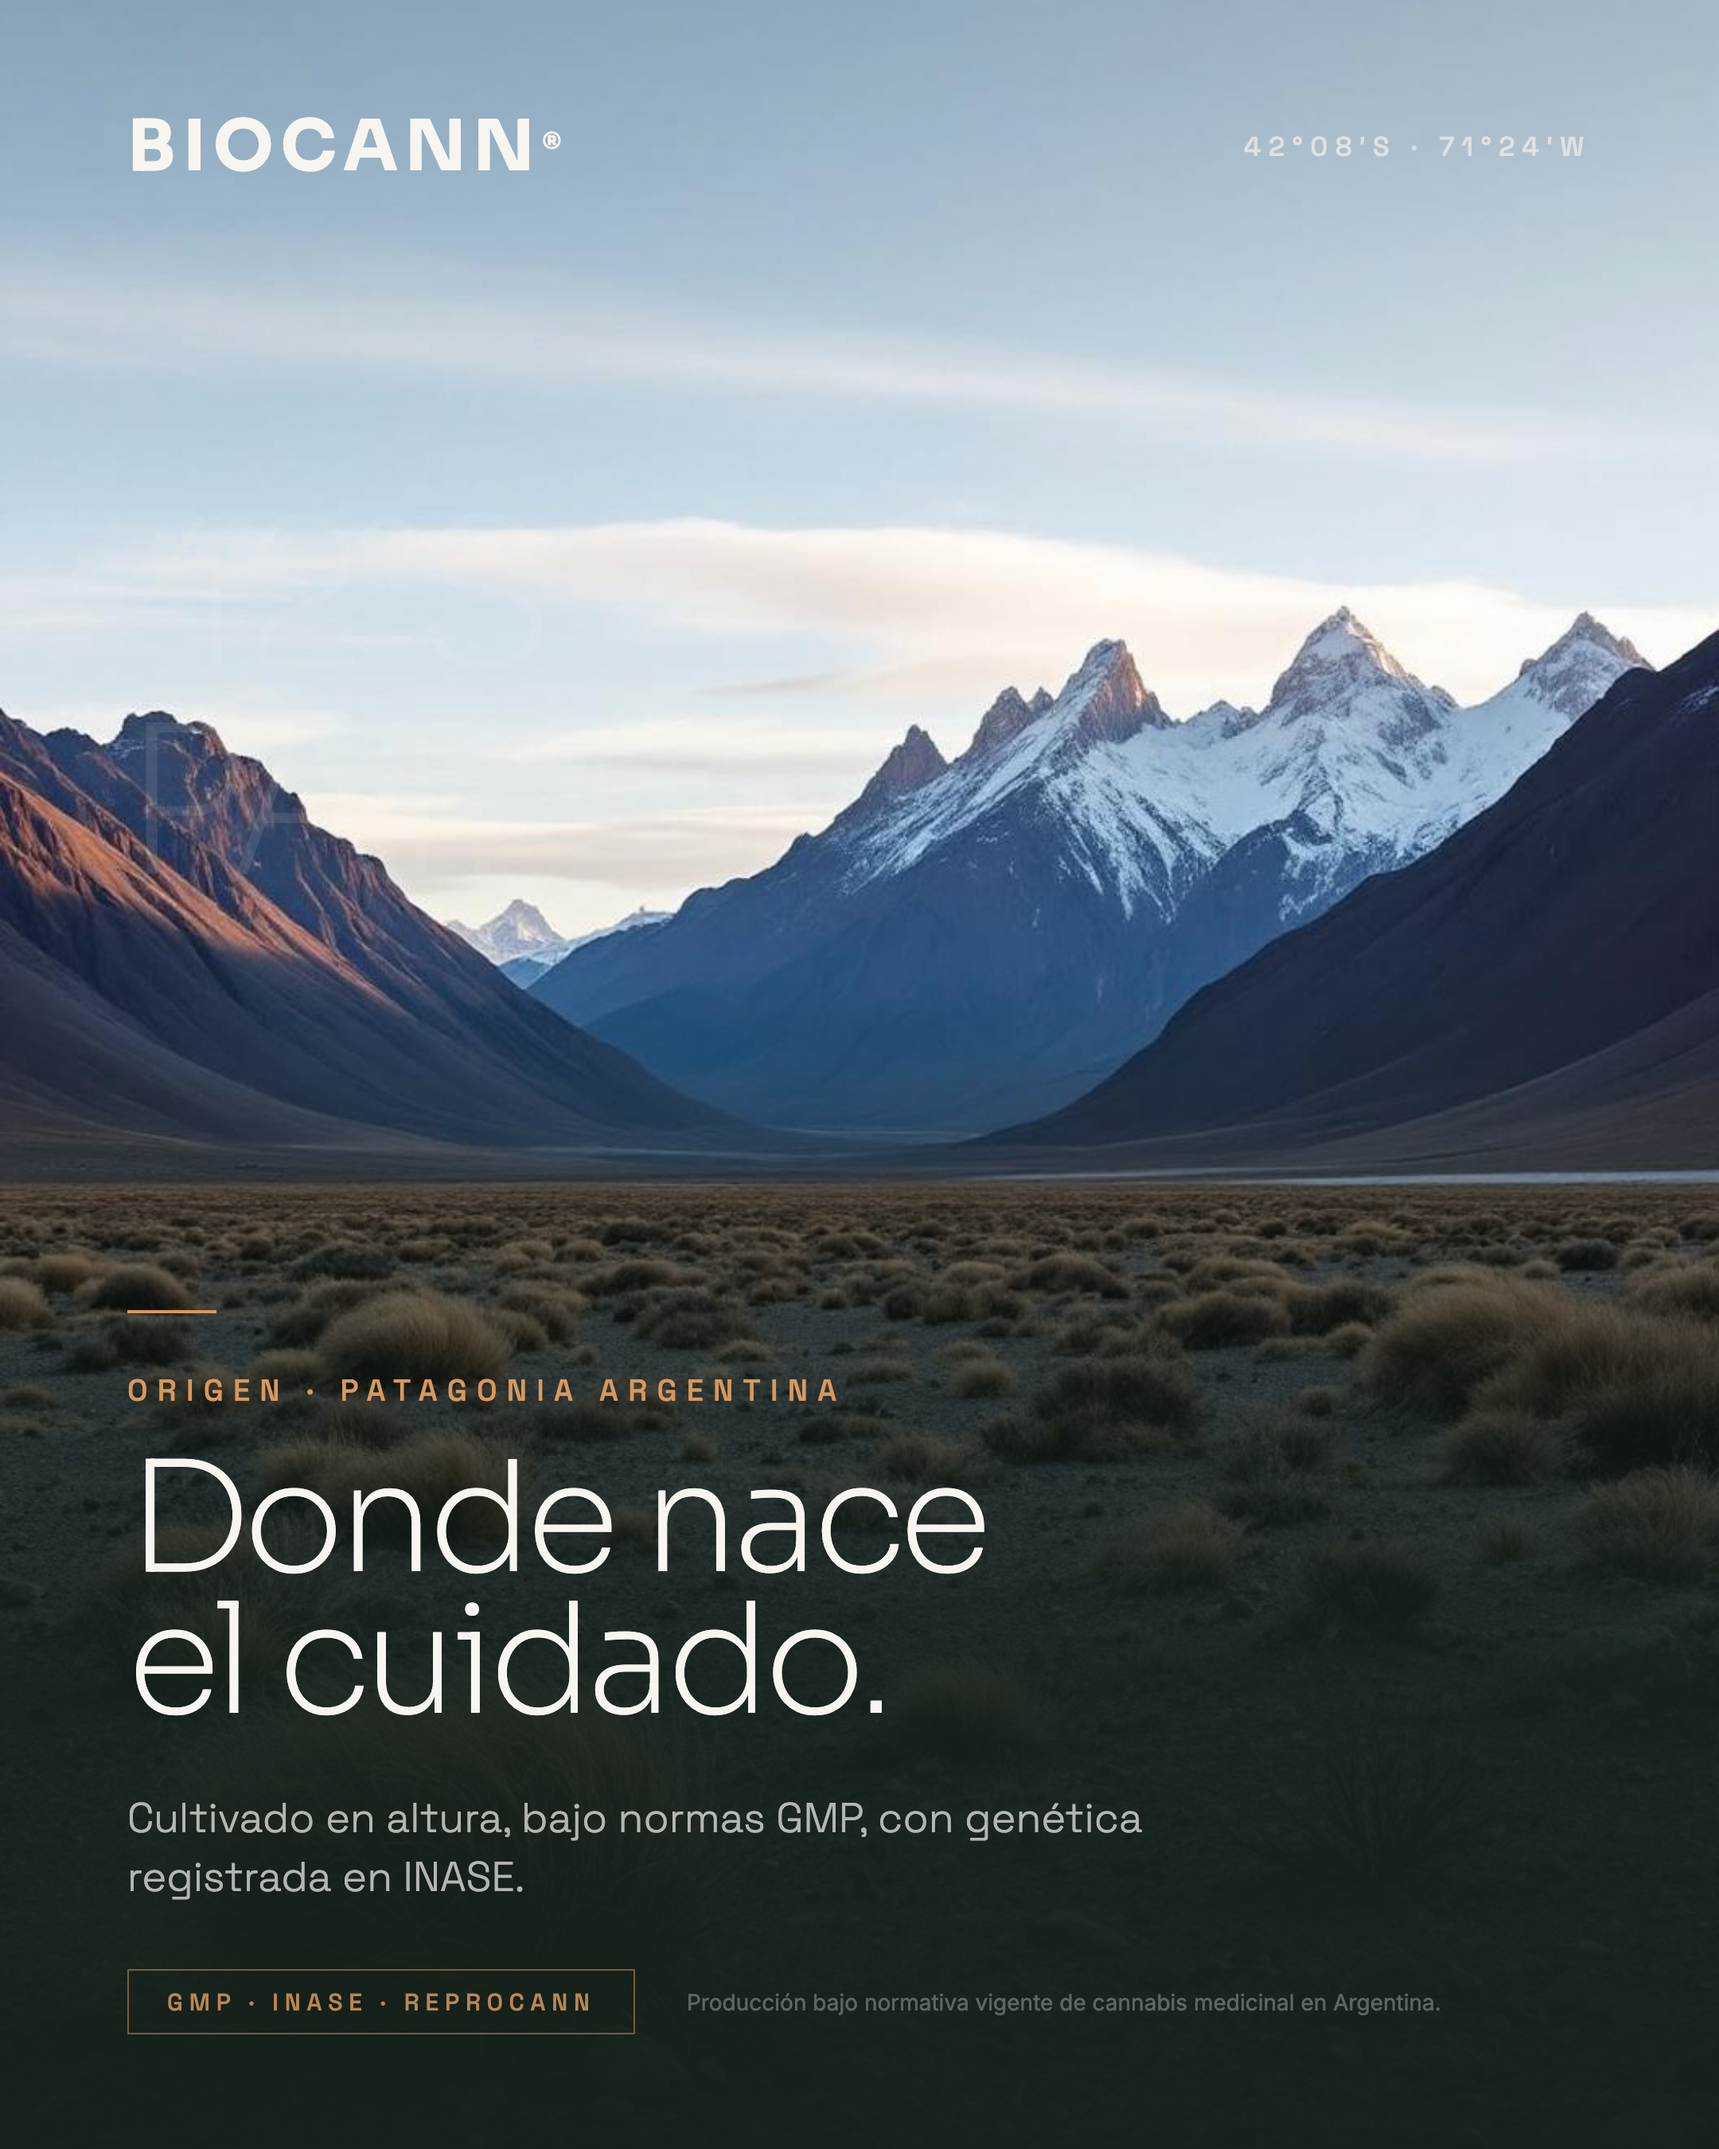
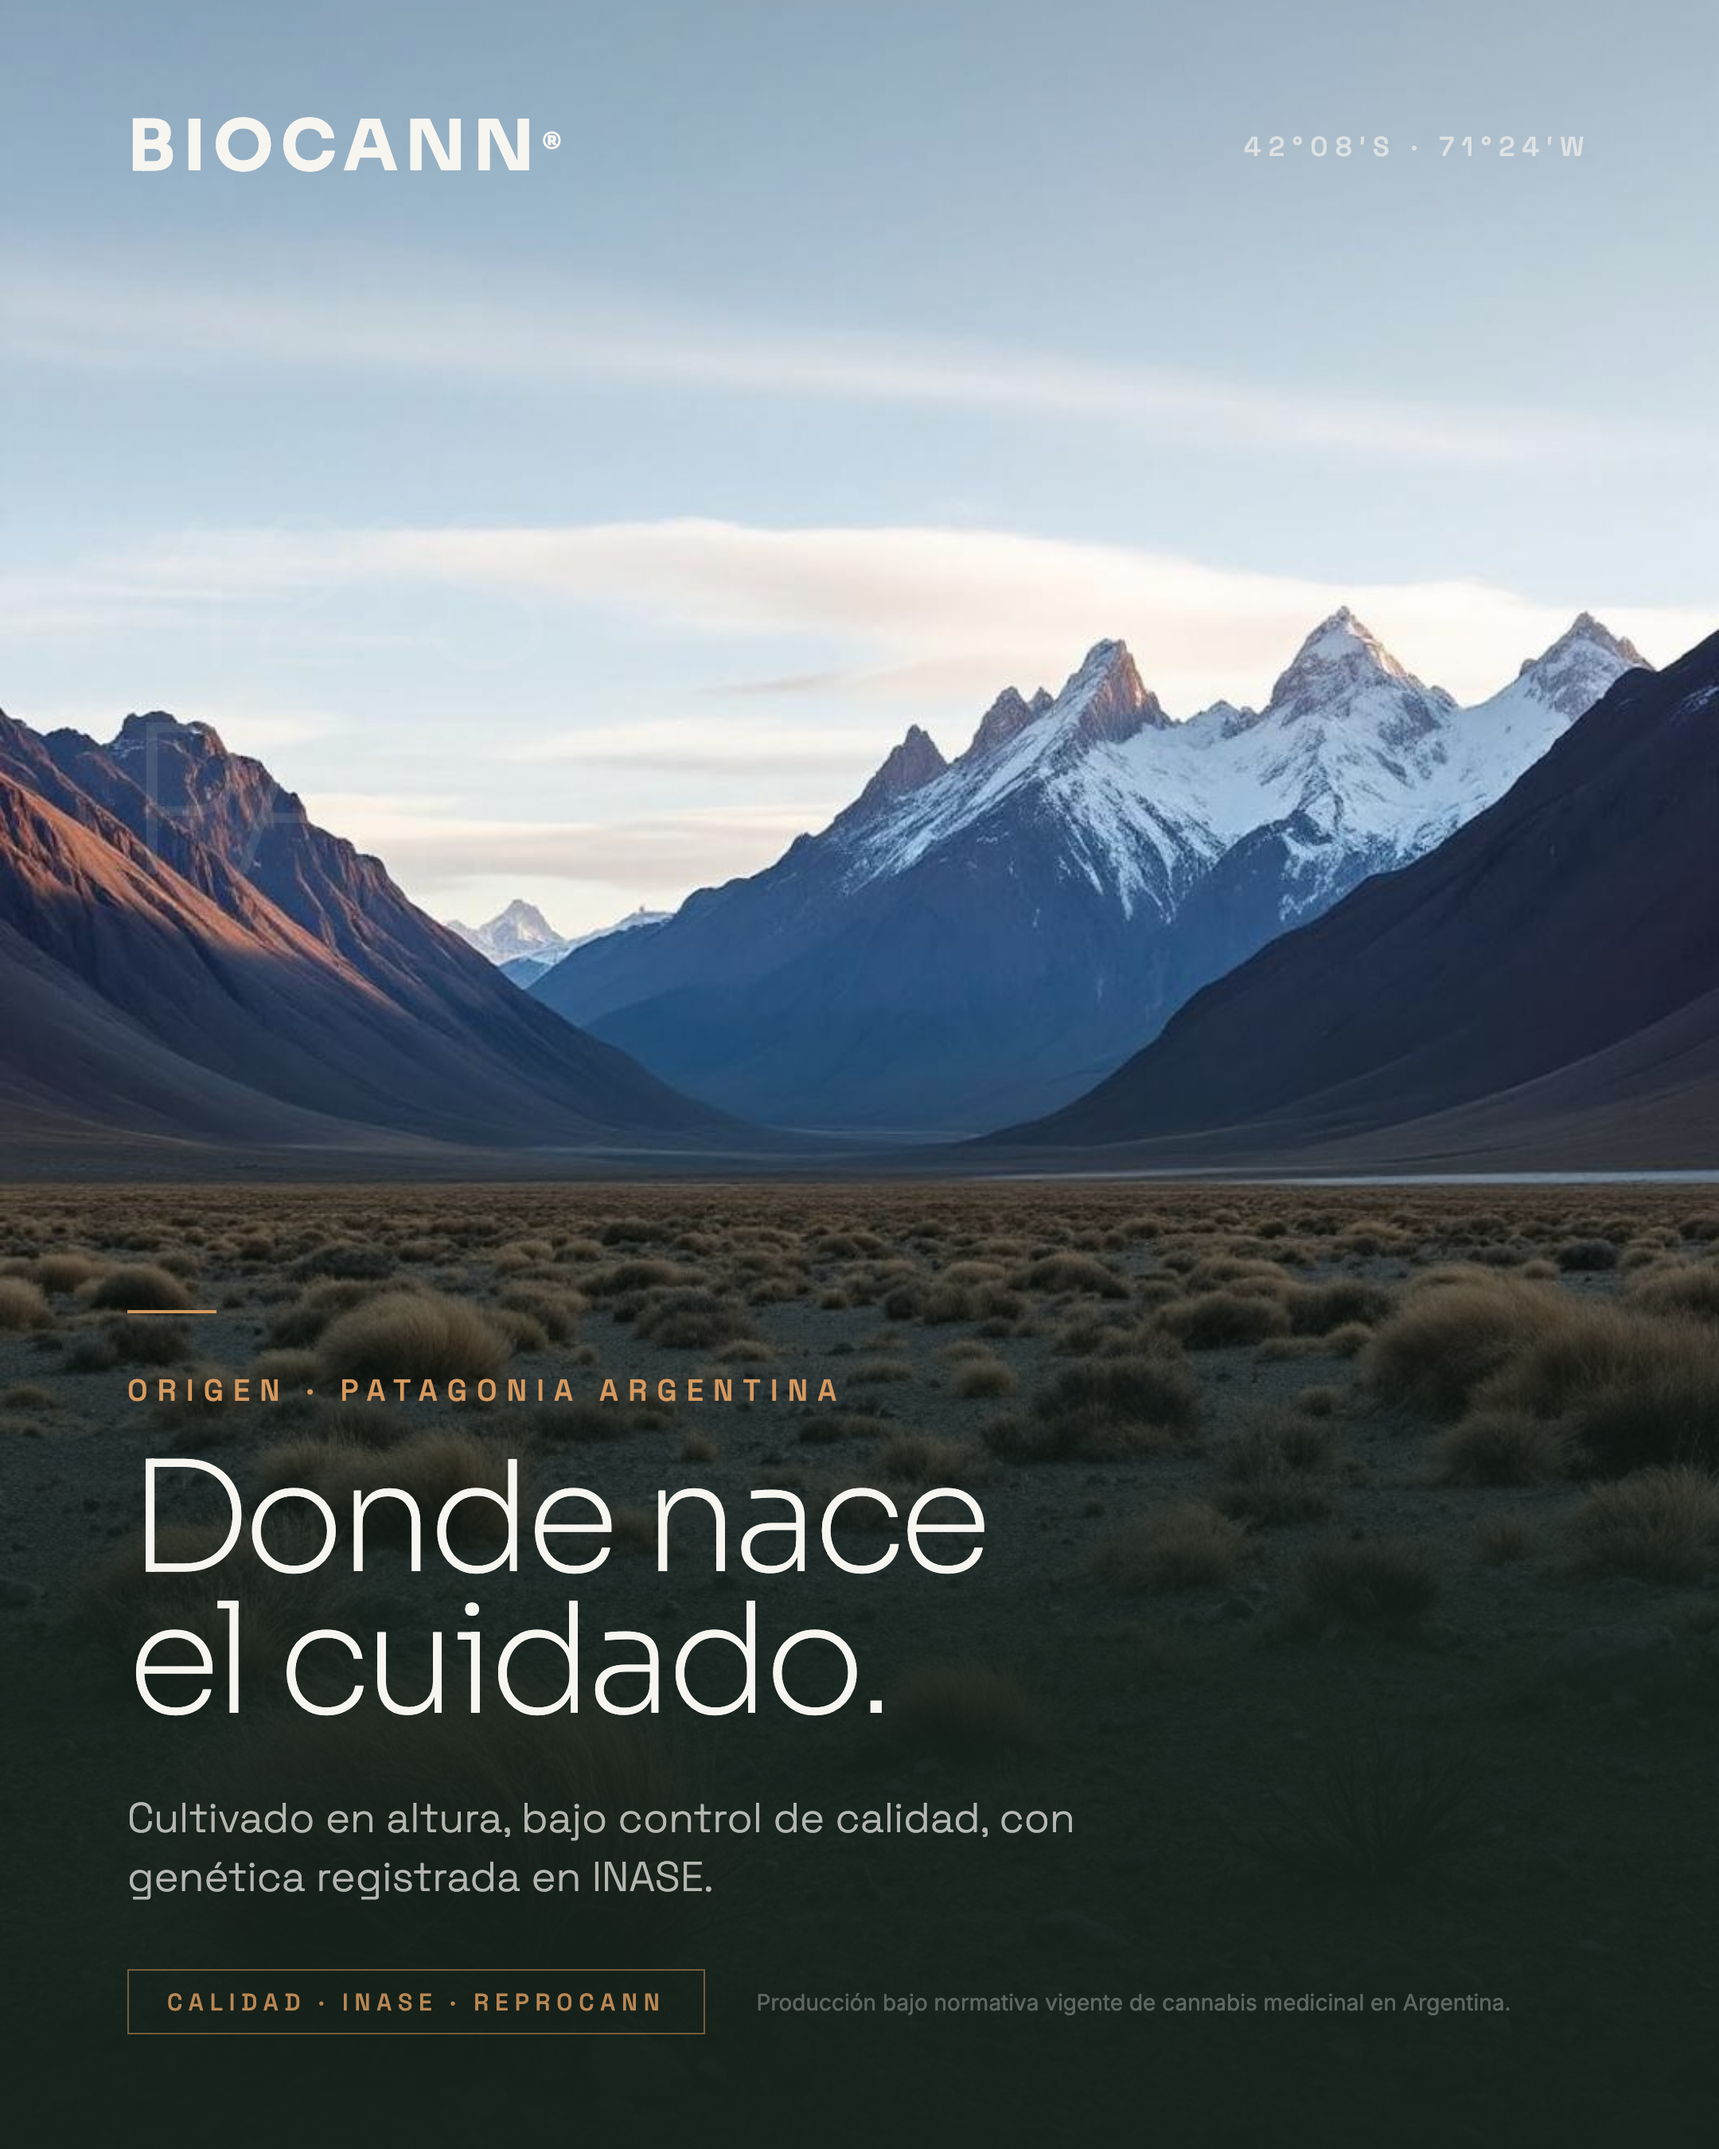
fix(cal-03): reemplaza GMP por control de calidad
Subhead: "bajo normas GMP" → "bajo control de calidad"
Meta-pill: "GMP · INASE · REPROCANN" → "CALIDAD · INASE · REPROCANN"

Changed region(s): [[0.0931, 0.84, 0.6514, 0.9333]]

diff --git a/cal-cards/cal-03-patagonia.html b/cal-cards/cal-03-patagonia.html
@@ -10,7 +10,7 @@
 
   .hero {
     position: absolute; inset: 0;
-    background: url('../photos/cal/cal-01-real-biocann.jpg') center 40%/cover no-repeat;
+    background: url('../photos/cal/cal-03-patagonia-v2.jpg') center 40%/cover no-repeat;
   }
   .overlay {
     position: absolute; inset: 0;
@@ -141,9 +141,9 @@
     <div class="accent-bar"></div>
     <div class="eyebrow">ORIGEN · PATAGONIA ARGENTINA</div>
     <div class="headline">Donde nace<br>el cuidado.</div>
-    <div class="subhead">Cultivado en altura, bajo normas GMP, con genética registrada en INASE.</div>
+    <div class="subhead">Cultivado en altura, bajo control de calidad, con genética registrada en INASE.</div>
     <div class="meta-row">
-      <div class="meta-pill"><span class="meta-pill-text">GMP · INASE · REPROCANN</span></div>
+      <div class="meta-pill"><span class="meta-pill-text">CALIDAD · INASE · REPROCANN</span></div>
       <div class="disclaimer">Producción bajo normativa vigente de cannabis medicinal en Argentina.</div>
     </div>
   </div>
